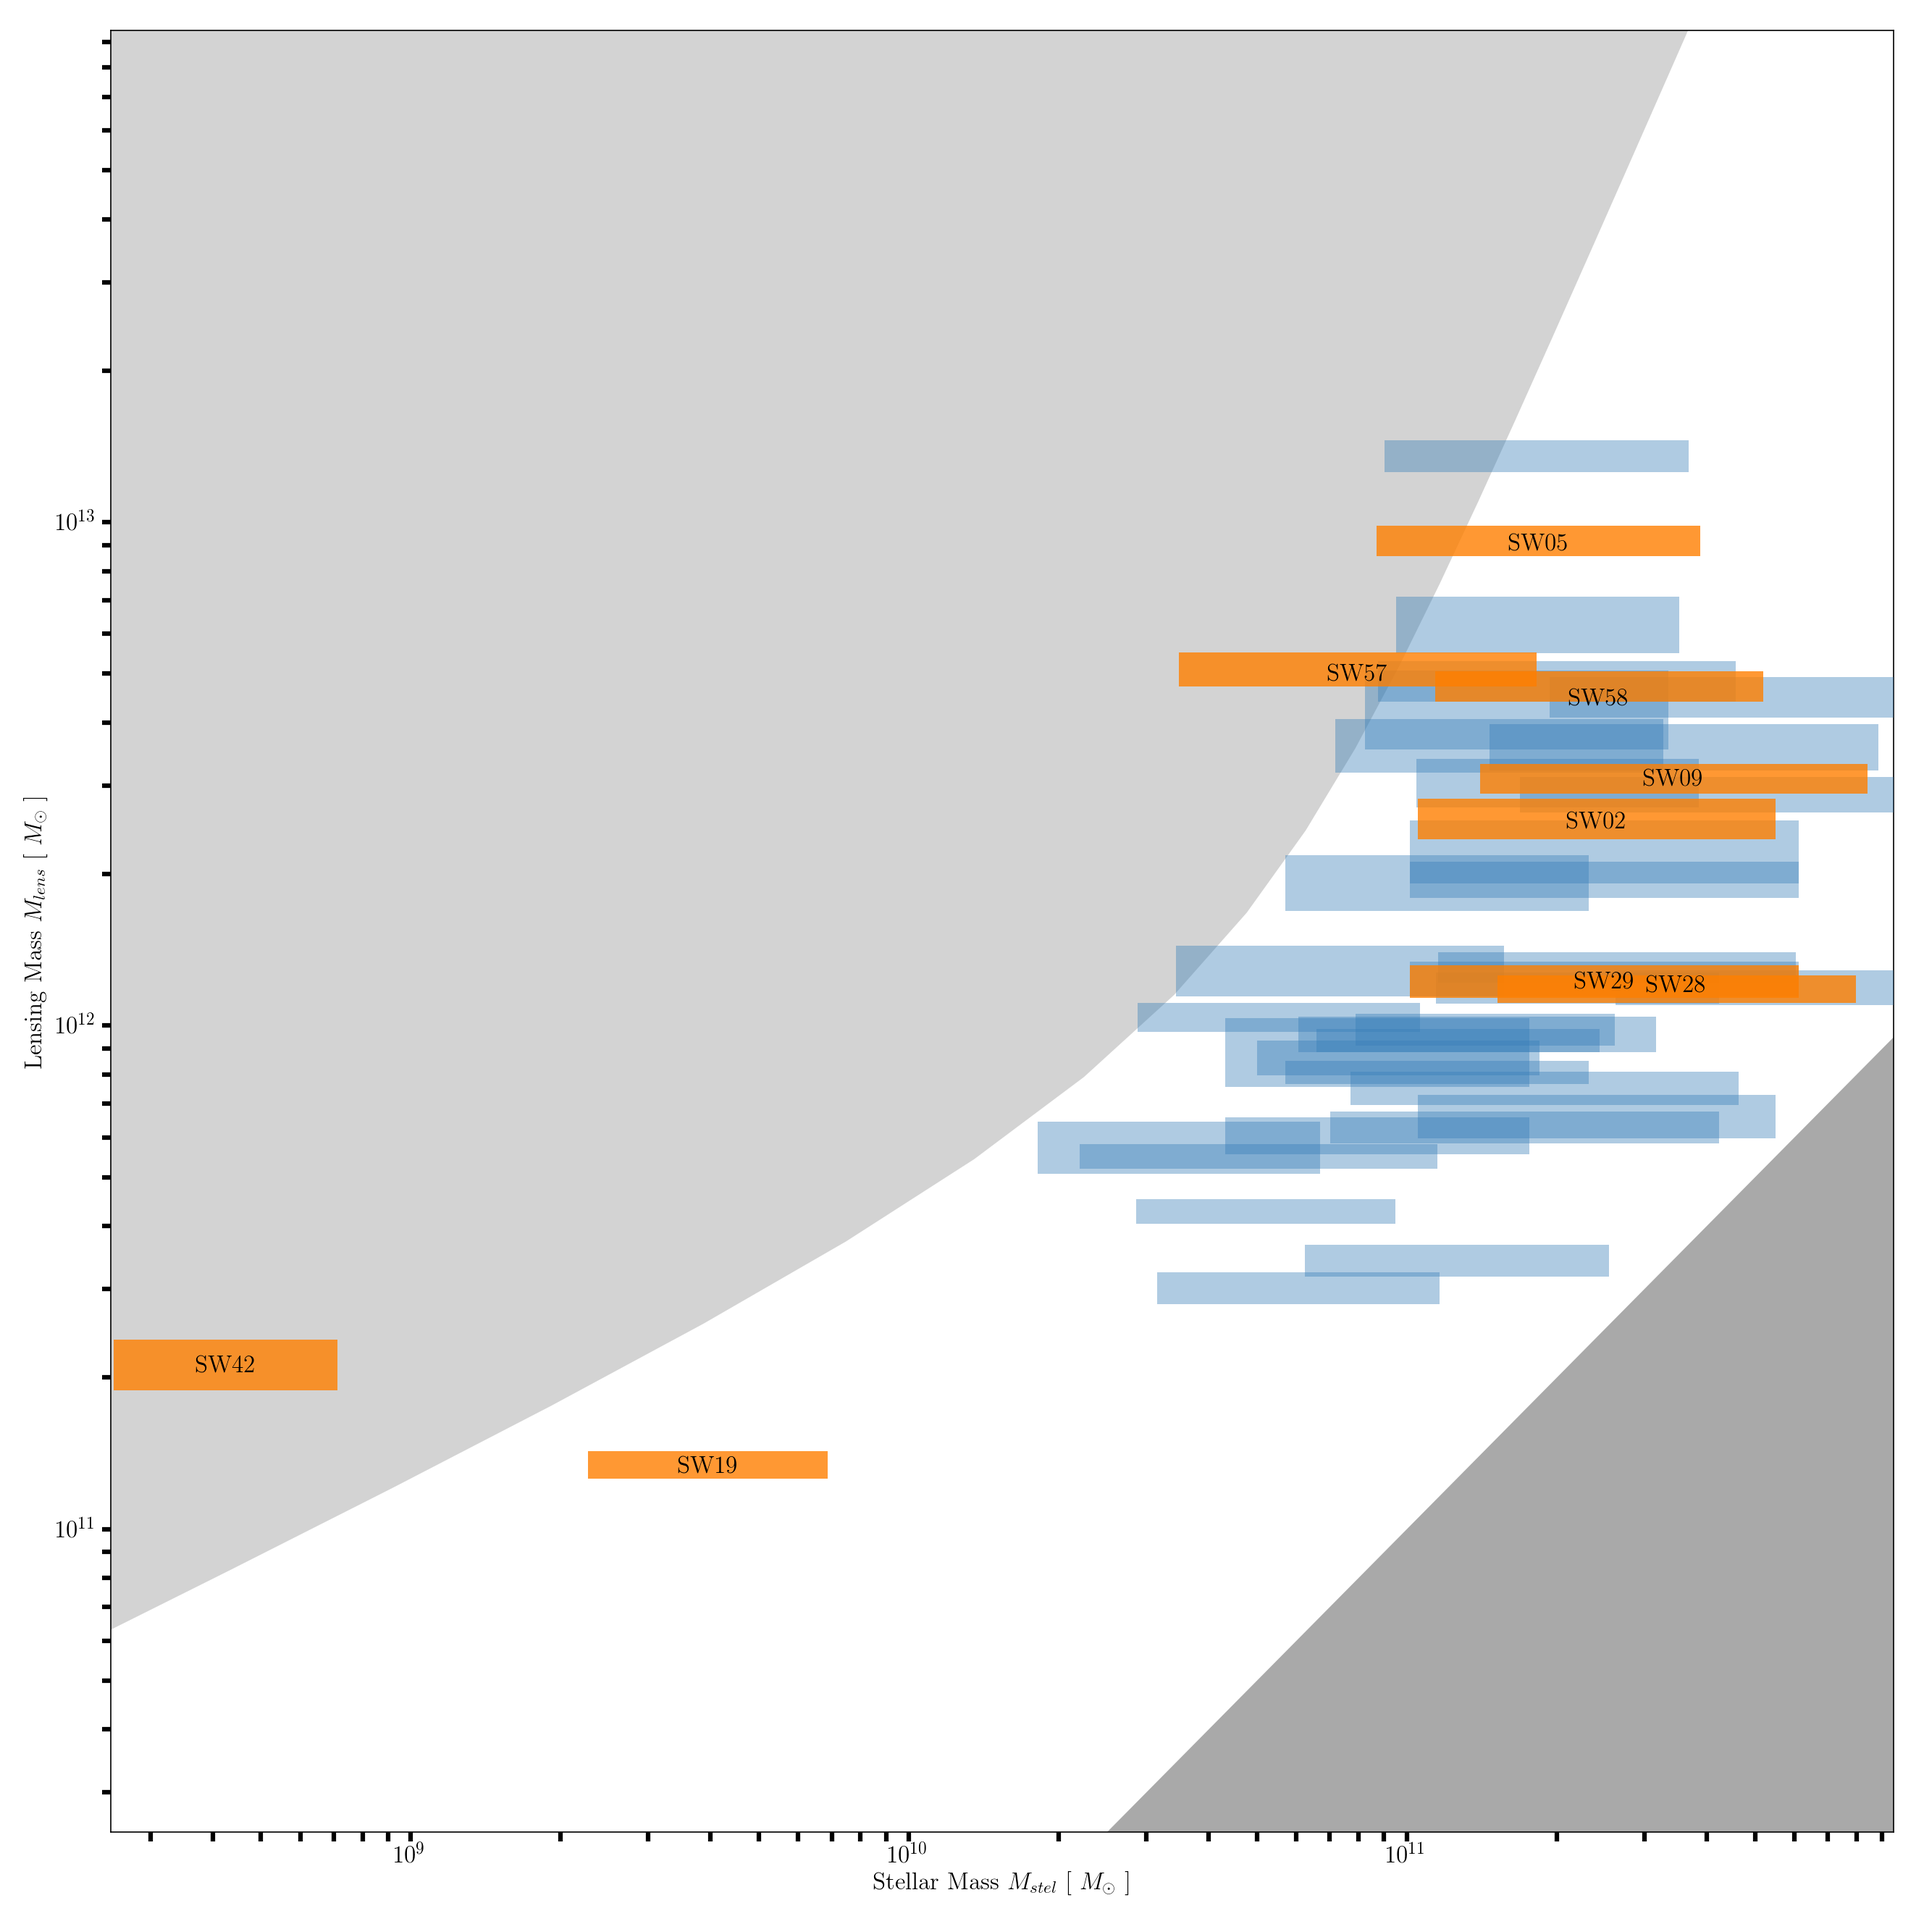
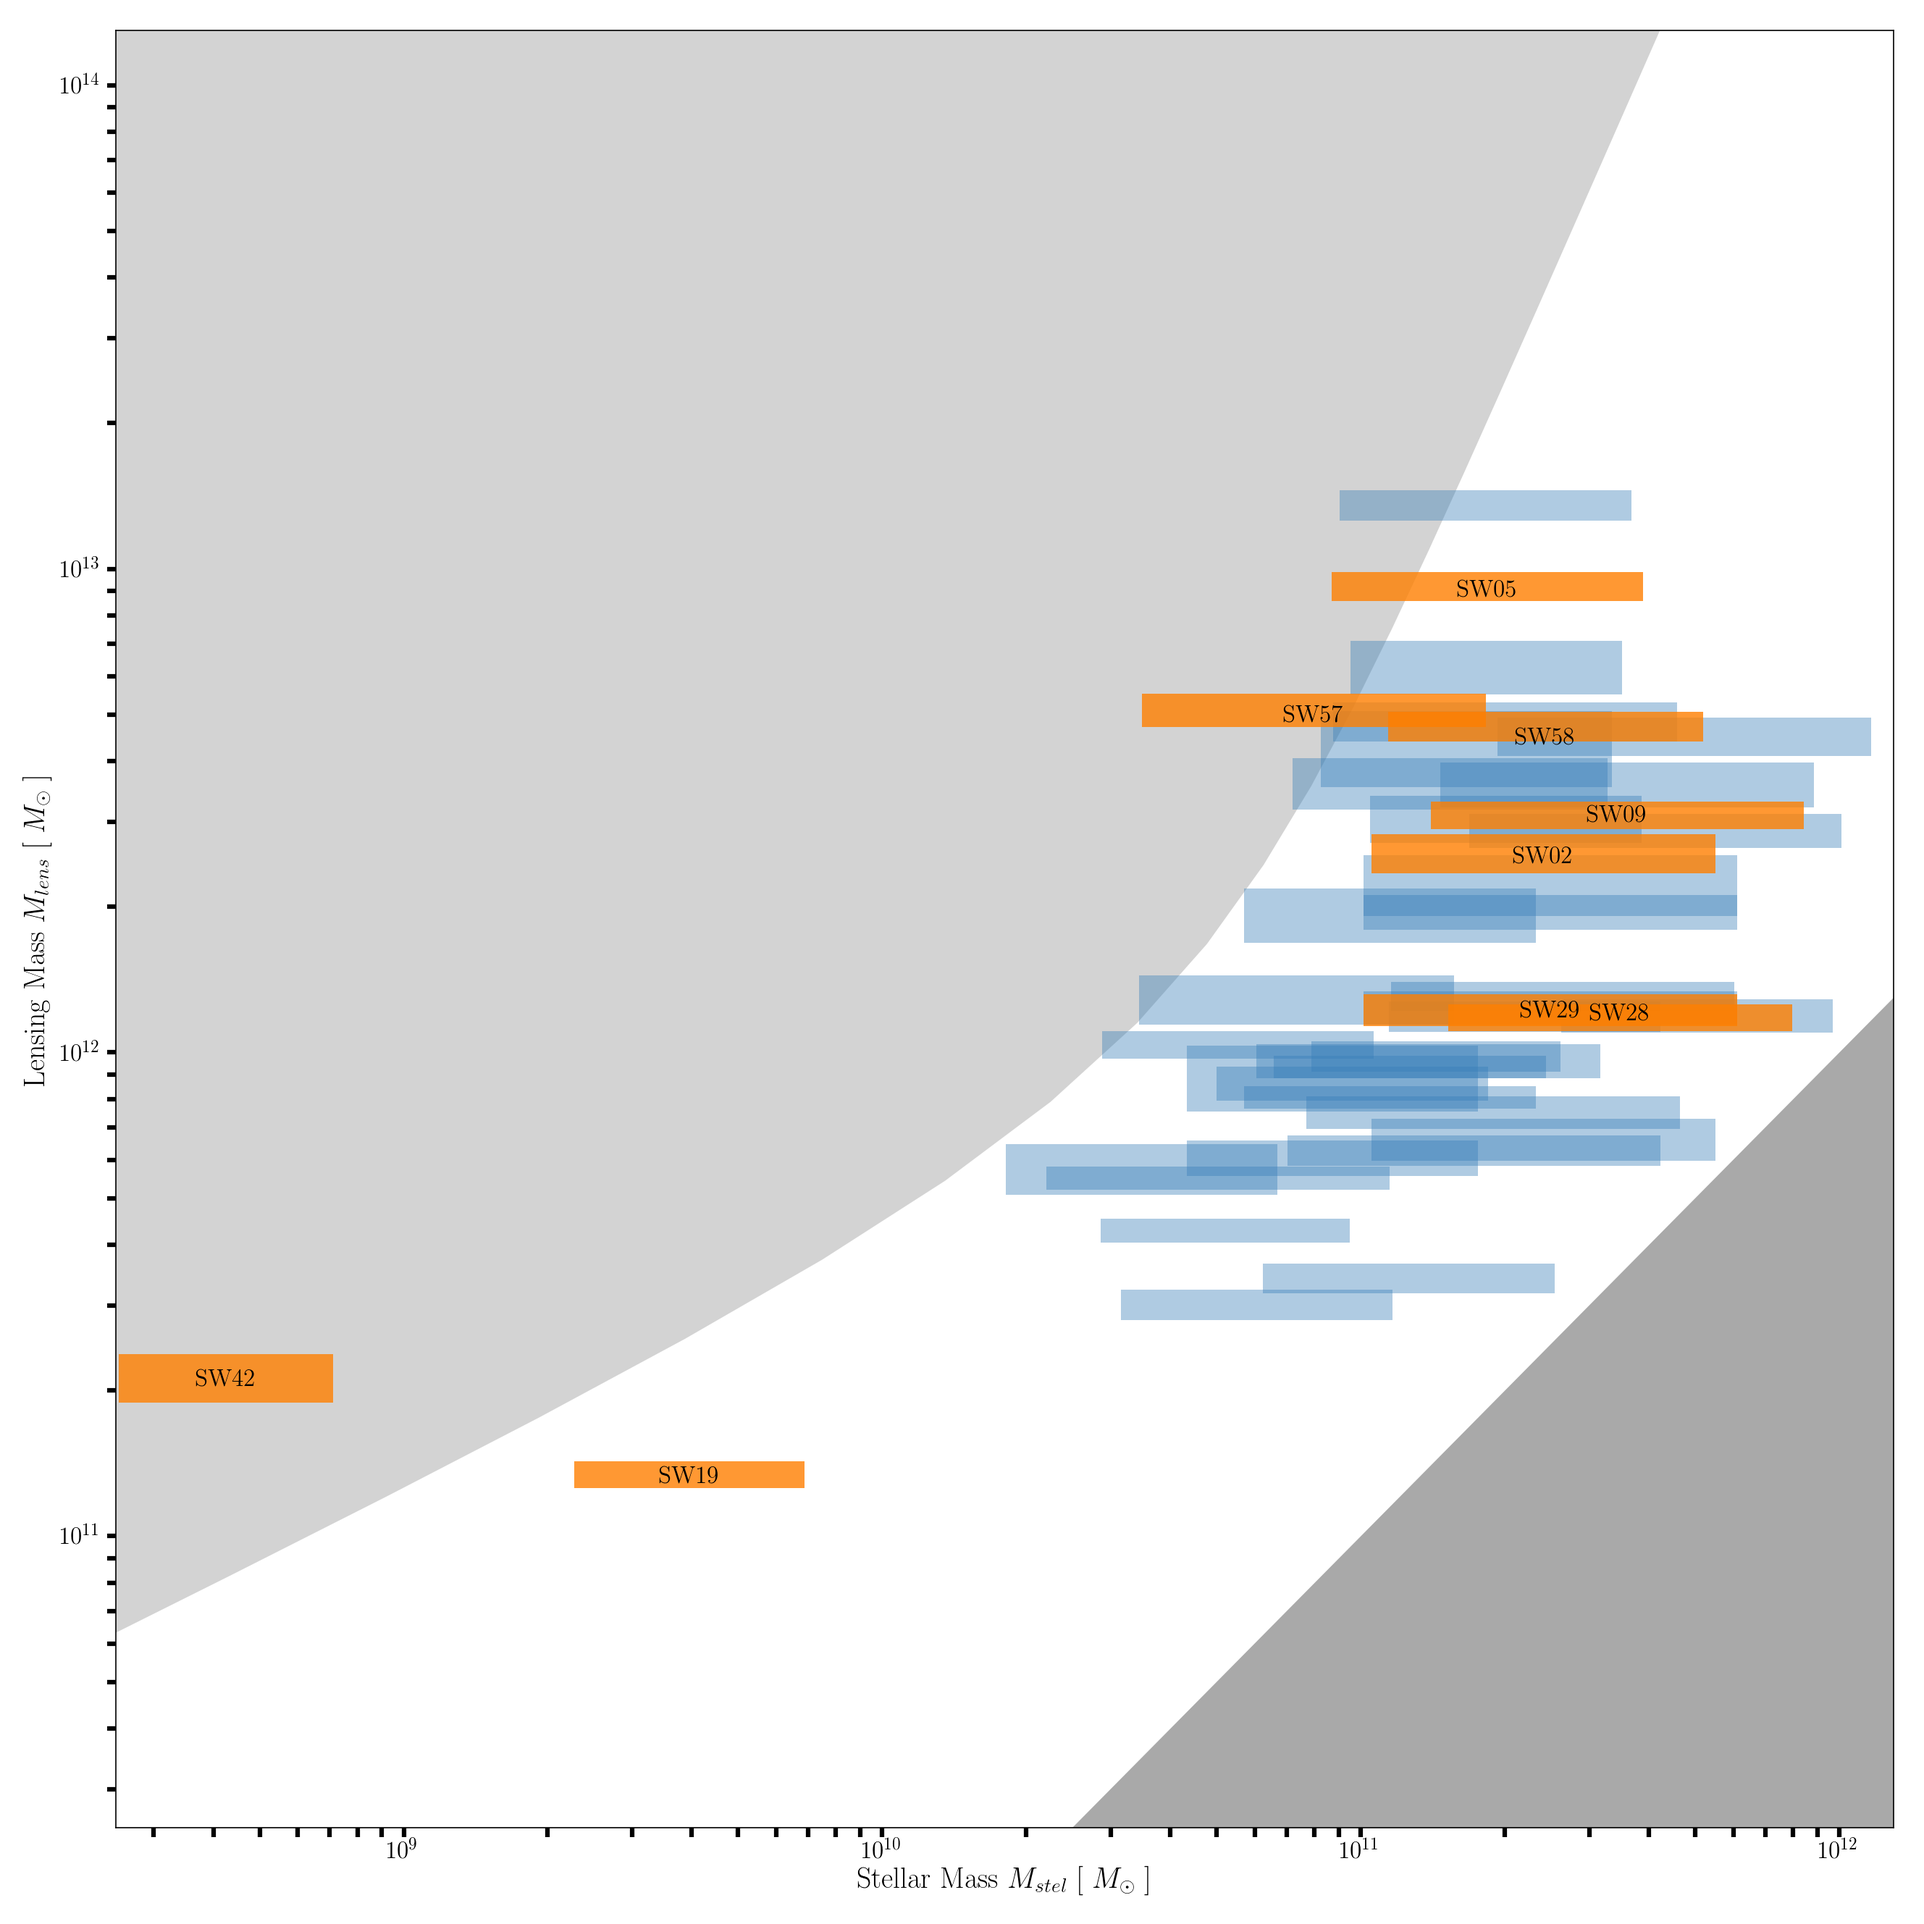
update table and overview plot, fixes #21

diff --git a/parts/table.tex b/parts/table.tex
@@ -128,7 +128,7 @@
   SW23 & ASW0003r61 & J023008.6-054038 & 0.6
     & \NO & \OK & \NO
     & SQ
-    & \UK & \OK & -0.54 \\
+    & \UK & \OK & 0.71 \\
     
   SW24 & ASW00050sk & J023315.2-042243 & 0.7
     & \NO & \OK & \NO
@@ -183,7 +183,7 @@
   SW34 & ASW00051ld & J023453.5-093032 & 0.5
     & \NO & \NO & \OK
     & D
-    & \UK & \OK & -0.85 \\
+    & \UK & \OK & 0.59 \\
     
   SW35 & ASW0004wgd & J084833.2-044051 & 0.8
     & \NO & \OK & \NO
@@ -233,7 +233,7 @@
   SW44 & ASW0002k40 & J021021.5-093415 & 0.4
     & \OK & \OK & \NO
     & D
-    & \UK & \OK & -0.44 \\
+    & \UK & \OK & 0.76 \\
     
   SW45 & ASW00024id & J021225.2-085211 & 0.8
     & \NO & \OK & \OK
